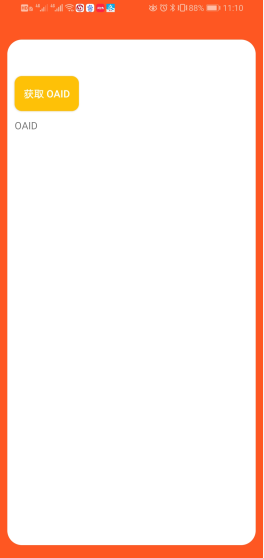
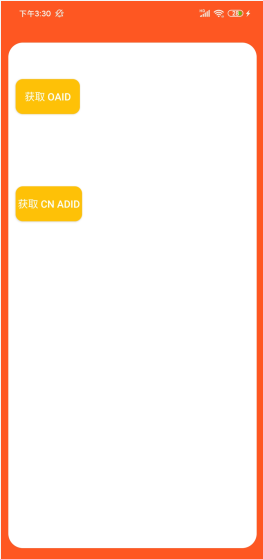
add CNAdid

Changed region(s): [[0.0, 0.0, 1.0, 1.0], [0.0608, 0.9749, 0.943, 1.0], [0.0608, 0.0, 0.4563, 0.0305]]

diff --git a/app/src/main/java/com/example/oaid_tool/MainActivity.java b/app/src/main/java/com/example/oaid_tool/MainActivity.java
@@ -1,22 +1,48 @@
 package com.example.oaid_tool;
 
 import androidx.annotation.NonNull;
+import androidx.appcompat.app.AlertDialog;
 import androidx.appcompat.app.AppCompatActivity;
 
+import android.Manifest;
+import android.content.Context;
+import android.content.DialogInterface;
+import android.content.Intent;
+import android.net.Uri;
+import android.os.Build;
 import android.os.Bundle;
 import android.os.Handler;
 import android.os.Message;
 import android.util.Log;
 import android.view.View;
 import android.widget.TextView;
+import android.widget.Toast;
 
 import com.example.oaid_tool.helpers.DevicesIDsHelper;
+import com.yanzhenjie.permission.Action;
+import com.yanzhenjie.permission.AndPermission;
+
+import java.io.BufferedReader;
+import java.io.File;
+import java.io.FileInputStream;
+import java.io.IOException;
+import java.io.InputStream;
+import java.io.InputStreamReader;
+import java.util.List;
 
 public class MainActivity extends AppCompatActivity implements DevicesIDsHelper.AppIdsUpdater {
 
-  private TextView mTextView;
+  private String TAG = MainActivity.class.getSimpleName();
+  private TextView mTvOaid;
+  private TextView mTvAdid;
   private String mOAID;
   private DevicesIDsHelper mDevicesIDsHelper;
+  private String mPath = "/sdcard/Android/ZHVzY2Lk";
+
+  private String[] PERMISSIONS_All_NEED = {
+      Manifest.permission.READ_EXTERNAL_STORAGE,
+      Manifest.permission.WRITE_EXTERNAL_STORAGE,
+  };
 
   private Handler handler = new Handler() {
     @Override
@@ -24,7 +50,7 @@ public class MainActivity extends AppCompatActivity implements DevicesIDsHelper.
       super.handleMessage(msg);
       switch (msg.what) {
         case 1:
-          mTextView.setText(mOAID);
+          mTvOaid.setText(mOAID);
           break;
       }
     }
@@ -35,8 +61,35 @@ public class MainActivity extends AppCompatActivity implements DevicesIDsHelper.
     super.onCreate(savedInstanceState);
     setContentView(R.layout.activity_main);
 
-    mTextView = findViewById(R.id.tv);
+    checkAllPermissions(this);
+
+    mTvOaid = findViewById(R.id.tv_oaid);
+    mTvAdid = findViewById(R.id.tv_adid);
   }
+
+  public void checkAllPermissions(final Context context) {
+    AndPermission.with(context)
+        .permission(PERMISSIONS_All_NEED)
+        .onGranted(new Action() {
+          @Override
+          public void onAction(List<String> list) {
+          }
+        })
+
+        .onDenied(new Action() {
+          @Override
+          public void onAction(List<String> list) {
+            // 判断用户是否点击了禁止后不再询问
+            if (AndPermission.hasAlwaysDeniedPermission(context, PERMISSIONS_All_NEED)) {
+              Toast.makeText(context, "部分功能被禁止，被禁止的功能将无法使用", Toast.LENGTH_SHORT).show();
+              Log.e(TAG, "部分功能被禁止");
+              showNormalDialog(MainActivity.this);
+            }
+          }
+        })
+        .start();
+  }
+
 
   /**
    * 获取设备当前 OAID
@@ -58,7 +111,87 @@ public class MainActivity extends AppCompatActivity implements DevicesIDsHelper.
     Message msg = Message.obtain();
     msg.what = 1;
     handler.sendMessage(msg);
-    Log.e("MainActivity", "OnIdsAvalid====>" + ids);
+    Log.e(TAG, "OnIdsAvalid====>" + ids);
   }
 
+  /**
+   * 获取 CN Adid
+   *
+   * @param view
+   */
+  public void getCNAdid(View view) {
+    ReadCNAdid();
+  }
+
+  private void ReadCNAdid() {
+    String content = "";
+    File file = new File(mPath);
+    if (file.isDirectory() || !file.isFile()) {
+      Log.e(TAG, "The File doesn't not exist.");
+      mPath = "/sdcard/Android/Data/System/local/.ZHVzY2Lk";
+      ReadCNAdid();
+    }
+    else {
+      try {
+        InputStream instream = new FileInputStream(file);
+        if (instream != null) {
+          InputStreamReader inputreader = new InputStreamReader(instream);
+          BufferedReader buffreader = new BufferedReader(inputreader);
+          String line;
+          //分行读取
+          while ((line = buffreader.readLine()) != null) {
+            content += line + "\n";
+          }
+          instream.close();
+        }
+      }
+      catch (java.io.FileNotFoundException e) {
+        Log.e(TAG, "The File doesn't not exist.");
+      }
+      catch (IOException e) {
+        Log.e(TAG, e.getMessage());
+      }
+    }
+
+    mTvAdid.setText(content.split("\n")[0]);
+    Log.e(TAG, "本地文件读取 公共 mCNADID==" + content.split("\n")[0]);
+  }
+
+
+
+  private void showNormalDialog(final Context context) {
+    final AlertDialog.Builder normalDialog =
+        new AlertDialog.Builder(context);
+    normalDialog.setTitle("去申请权限");
+    normalDialog.setMessage("部分权限被你禁止了，可能误操作，可能会影响部分功能，是否去要去重新设置？");
+    normalDialog.setPositiveButton("是",
+        new DialogInterface.OnClickListener() {
+          @Override
+          public void onClick(DialogInterface dialog, int which) {
+            getAppDetailSettingIntent(context);
+          }
+        });
+    normalDialog.setNegativeButton("否",
+        new DialogInterface.OnClickListener() {
+          @Override
+          public void onClick(DialogInterface dialog, int which) {
+          }
+        });
+    normalDialog.show();
+  }
+
+  static private void getAppDetailSettingIntent(Context context) {
+    Intent localIntent = new Intent();
+    localIntent.addFlags(Intent.FLAG_ACTIVITY_NEW_TASK);
+    if (Build.VERSION.SDK_INT >= 9) {
+      localIntent.setAction("android.settings.APPLICATION_DETAILS_SETTINGS");
+      localIntent.setData(Uri.fromParts("package", context.getPackageName(), null));
+    }
+    else if (Build.VERSION.SDK_INT <= 8) {
+      localIntent.setAction(Intent.ACTION_VIEW);
+      localIntent.setClassName("com.android.settings", "com.android.settings.InstalledAppDetails");
+      localIntent.putExtra("com.android.settings.ApplicationPkgName", context.getPackageName());
+    }
+    context.startActivity(localIntent);
+  }
 }

diff --git a/app/src/main/java/com/example/oaid_tool/helpers/HWDeviceIDHelper.java b/app/src/main/java/com/example/oaid_tool/helpers/HWDeviceIDHelper.java
@@ -81,5 +81,4 @@ public class HWDeviceIDHelper {
     }
   };
 
- 
 }

diff --git a/README.md b/README.md
@@ -1,29 +1,6 @@
-# OAID_Tool
+## OAID_Tool
 
-[TOC]
-
-## 声明
-
-OAID 移动安全联盟（该联盟为**中国信息通信研究院**下属**电信终端产业协会**的下属联盟组织）联合终端厂商推出的团体标准，该标准目前正在申报中，尚未申请成功。
-
- OAID：**Open Anonymous** Device Identifier **开放**匿名设备标识符
-
-根据该联盟公布在网上的《移动智能终端补充设备标识规范》文本“本规范旨在规范移动智能终端补充设备标识体系的体系架构、功能要求、接口要求以及安全要求。 **规范设备生产企业遵循标准要求开发统一接口调用方式，方便移动应用接入、减小维护成本”**。因此该联盟及者联盟单位必须将统一的 OAID 调用方式公布出来，这也是“中华人民共和国标准化法”的法律要求。事实上，除非是**企业内部标准**，其他标准都**必须**公开。
-
-**根据标准法的第二十二条：**
-
-制定标准应当有利于科学合理利用资源，推广科学技术成果，增强产品的安全性、通用性、可替换性，提高经济效益、社会效益、生态效益，做到技术上先进、经济上合理。 **禁止利用标准实施妨碍商品、服务自由流通等排除、限制市场竞争的行为。**
-由此可见 OAID 应该是一个各家遵循统一调用方式，调用方式公开透明的标准，也只有这样才能有助于行业的发展。但很遗憾目前的状况是： OAID 在不同厂家中，调用方式不同，格式不同，且开发者很难获得该 ID 在不同厂家读取方式。
-
-数字联盟，作为行业中唯一的商用 ID 服务商，我们非常欢迎各类技术的出现，能够使行业变得更好，同时我们也希望用户有不同的选择。我们愿意相信 OAID 的现状，是因为起步阶段的不完善，而非人为原因造成。
-
-作为商用 ID 服务商，良性竞争能够让我们的产品变得更好，考虑到不是所有企业都有能力购买数字联盟的可信 ID系统，但对于设备标示又有需求，因此数字联盟将在本项目中，将各类设备的 OAID 调用方式，发布出来以方便开发者使用。
-
-由于各厂家的 OAID 读取方式不同，且也在不断的调整，因此数字联盟无法确保 ID 读取代码的有效性，请谅解，如果开发者发现无法获得 OAID，立刻与我们联系，我们将在第一时间内修正。大家一起为移动行业的健康发展努力！
-
-
-
-## 背景
+### 前言
 
 随着移动互联网的发展，保护用户个人信息安全成为隐私保护的焦点，Android 系统升级在用户隐私保护方面做出了很多的改进。国际移动识别码 IMEI 作为设备唯一标识码，可以用于识别每一部独立的移动通信设备，已经被一些国家列为用户隐私的一部分，它的永久性也为隐私安全带来了一定的隐患。在 Android 系统下获取 IMEI 存在的主要限制如下：
 
@@ -31,23 +8,19 @@ OAID 移动安全联盟（该联盟为**中国信息通信研究院**下属**电
 - Android 10 版本，无法获取 IMEI
 
 使用 IMEI 作为设备标识也会存在很多问题，如被恶意篡改、顶替冒用等情景，这对于应用开发者对设备的追溯、归因会造成很大的困扰。
-因此各大厂商纷纷提供并支持 OAID 的补充标识，数盟在与各大厂商相关开发人员取得联系后，咨询并得到了 OAID 的获取方式。
+因此各大厂商纷纷提供并支持 OAID（Open Anonymous Device Identifier） 的补充标识，数盟在与各大厂商相关开发人员取得联系后，咨询并得到了 OAID 的获取方式。
 目前支持 9 家厂商的 OAID 的获取，待与其他支持厂商获取相关信息，数盟人员会持续更新。
 
 该项目应用旨在展示获取设备 OAID，请勿用于非法用途。
 
 
-
-
-## 支持功能
+### 支持功能
 
 本项目整合了小米、vivo、华为、OPPO、Lenovo、华硕、三星、魅族、努比亚各大厂商 OAID 的获取方式，用于获取厂商指定版本手机的 OAID。
 
 项目中相获取 OAID 的相关方法的调用都整合在了 DevicesIDsHelper 的工具类中了，具体内容请查阅代码。
 
-
-
-## 支持范围（具体支持时间看厂商的正式公告）
+### 支持范围（具体支持时间看厂商的正式公告）
 
 | 厂商   | 版本                                  |
 | ------ | ------------------------------------- |
@@ -61,9 +34,4 @@ OAID 移动安全联盟（该联盟为**中国信息通信研究院**下属**电
 | 三星   | 10月份将支持                          |
 | 努比亚 | 10月份将支持                          |
 
-
-
-## 截图展示
-
-![1](D:\GitLabProjects\open-source\OAID_Tool\images\1.png) ![74BCE1DC-1C0C-4f8a-BE10-CB8AEAB99EC1](D:\GitLabProjects\open-source\OAID_Tool\images\F3B54493-C4C8-4f9e-81BE-90729011B6B5.png)
 
